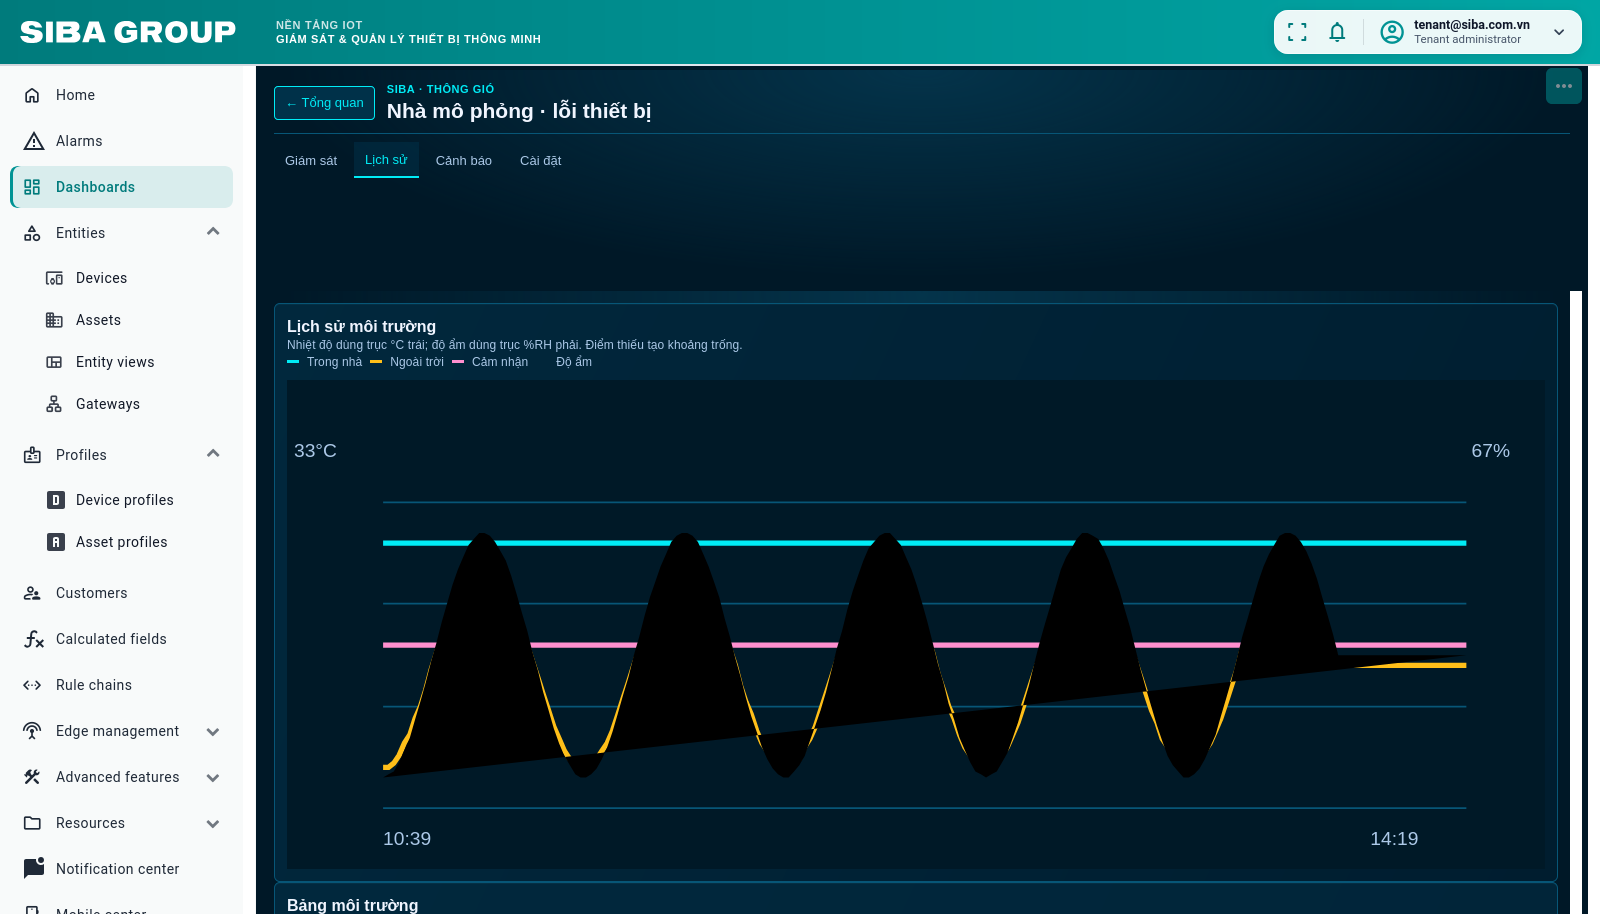
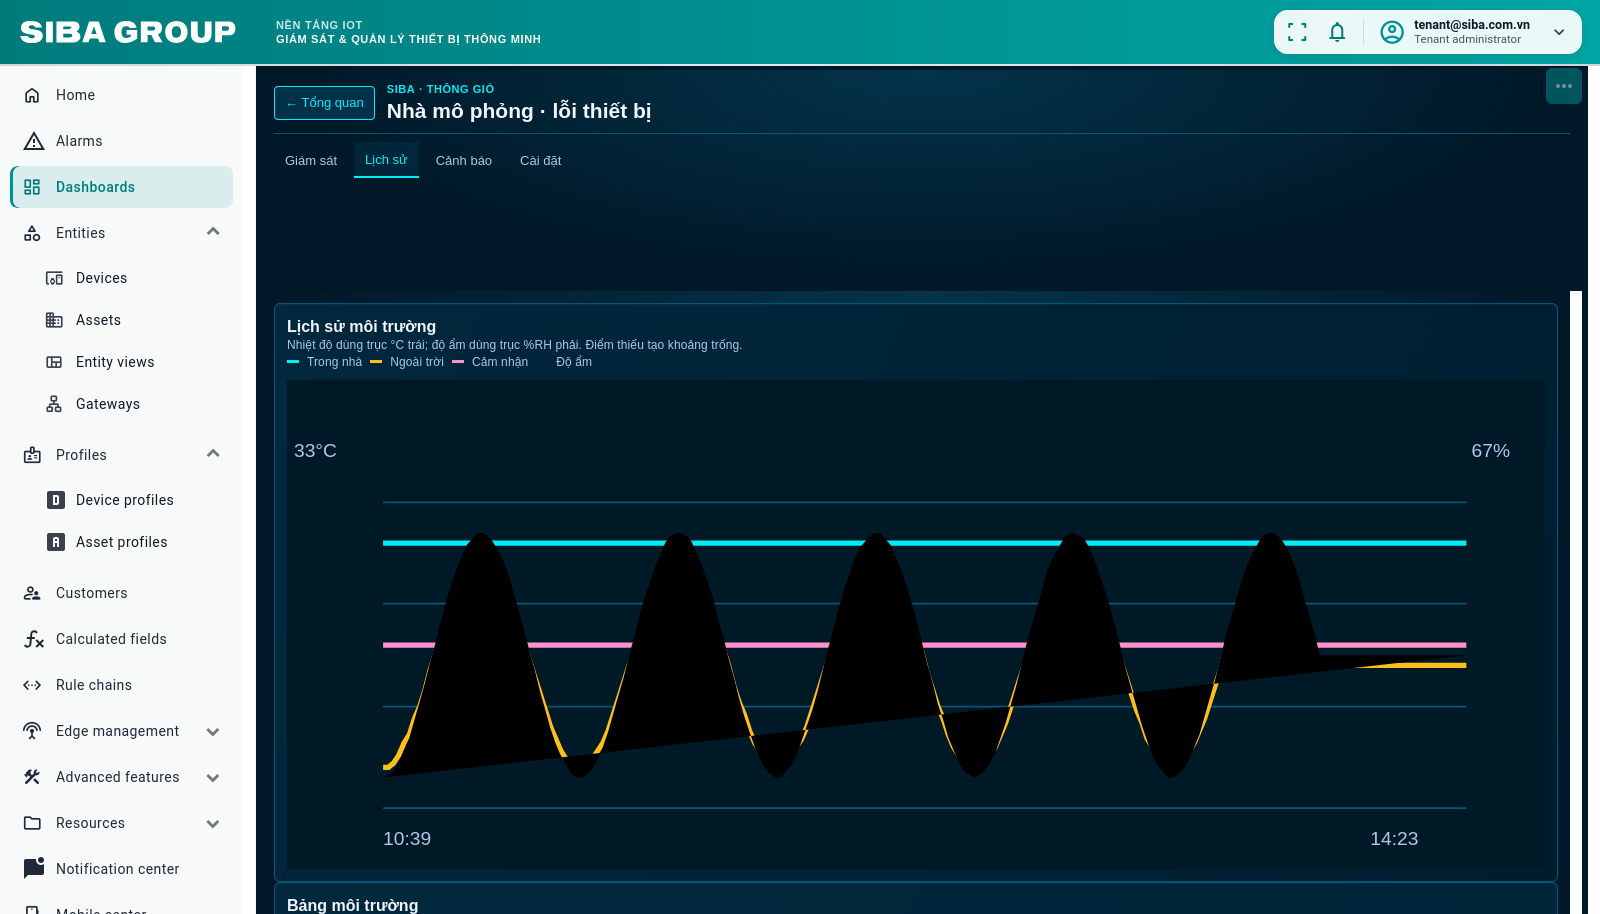
fix(vent011): widget alarm thiếu cửa sổ thời gian riêng nên truy vấn trả 0
Chẩn đoán cho thấy alias stateEntity resolve ĐÚNG thiết bị (SIM-VEN-FAULT, đủ 5 cột alarm),
state param có entityId, subscription đúng hình dạng — nhưng TB vẫn trả alarmTotal = 0.

Đối chiếu với widget alarm đang chạy thật trên dashboard Khử mùi của cùng instance: widget kiểu
alarm CÓ cửa sổ thời gian riêng (useDashboardTimewindow + timewindow). Cấu hình của ta không có
trường nào trong số đó. Giờ đặt cửa sổ riêng 7 ngày, không dùng cửa sổ 6 giờ của dashboard vì
dashboard này không có thanh công cụ để người xem tự đổi.

Trước đó tôi đã loại giả thuyết cửa sổ thời gian vì widget Lịch sử không khai mà vẫn chạy —
lập luận đó sai, timeseries và alarm là hai đường xử lý khác nhau trong TB.

162 test đạt.

diff --git a/deploy/thingsboard/build_vent_live.py b/deploy/thingsboard/build_vent_live.py
@@ -34,6 +34,9 @@ DETAIL_COMPONENTS = ('kpis', 'synoptic', 'controller', 'metrics')
 # Chu kỳ bơm 60s; 5 phút là STALE. Cài đặt ghi thưa nên nới ngưỡng, không để mặc định UNKNOWN.
 FRESHNESS_MONITORING_MS = 300000
 FRESHNESS_SETTING_MS = 7 * 24 * 60 * 60 * 1000
+# Widget kiểu alarm CÓ cửa sổ thời gian riêng; thiếu nó thì truy vấn alarm trả về 0 dù alias đã
+# resolve đúng thiết bị. Đối chiếu với widget alarm đang chạy thật trên dashboard Khử mùi.
+ALARM_WINDOW_MS = 7 * 24 * 60 * 60 * 1000
 
 
 def alias_definitions():
@@ -116,12 +119,17 @@ def dashboard():
             widget['config']['alarmSource'] = {
                 'type': 'entity', 'name': 'Nhà gió', 'entityAliasId': ALIAS_SELECTED,
                 'dataKeys': [data_key(field, 'alarm') for field in ALARM_FIELDS]}
-            # statusList rỗng = mọi trạng thái; giao diện tự phân ACTIVE và RECOVERED.
-            # Thiết bị mô phỏng chưa có quan hệ nên không tìm alarm lan truyền.
+            # statusList rỗng = mọi trạng thái (TB bỏ tham số khỏi truy vấn); giao diện tự phân
+            # ACTIVE và RECOVERED. Thiết bị mô phỏng chưa có quan hệ nên không tìm alarm lan truyền.
             widget['config']['alarmFilterConfig'] = {
-                'statusList': [], 'severityList': [], 'typeList': None,
+                'statusList': [], 'severityList': [], 'typeList': [],
                 'searchPropagatedAlarms': False, 'assigneeId': None}
             widget['config']['pageSize'] = 100
+            # Cửa sổ riêng 7 ngày, không dùng cửa sổ của dashboard (dashboard chỉ 6 giờ và
+            # không có thanh công cụ để người xem đổi).
+            widget['config']['useDashboardTimewindow'] = False
+            widget['config']['displayTimewindow'] = False
+            widget['config']['timewindow'] = {'realtime': {'timewindowMs': ALARM_WINDOW_MS}}
     return dash
 
 
@@ -146,6 +154,8 @@ def validate(dash):
             assert all(key['type'] == 'alarm' for key in config['alarmSource']['dataKeys'])
             assert config['alarmFilterConfig']['statusList'] == []
             assert config['alarmFilterConfig']['searchPropagatedAlarms'] is False
+            assert config['useDashboardTimewindow'] is False
+            assert config['timewindow']['realtime']['timewindowMs'] == ALARM_WINDOW_MS
         # Mọi khóa đã khai phải có keyMap và ngưỡng tươi, nếu không widget hiện UNKNOWN.
         # Trường alarm là trường của nền tảng, không phải khóa telemetry nên không vào keyMap.
         declared = {key['name'] for source in config['datasources'] for key in source['dataKeys']}

diff --git a/tests/test_vent011_deploy.py b/tests/test_vent011_deploy.py
@@ -126,6 +126,23 @@ class LiveDashboardPayloadTest(unittest.TestCase):
         for field in live.ALARM_FIELDS:
             self.assertNotIn(field, settings["keyMap"])
 
+    def test_alarm_widget_carries_its_own_time_window(self):
+        """Widget kiểu alarm CÓ cửa sổ thời gian; thiếu nó thì truy vấn trả 0 alarm dù alias đã
+        resolve đúng thiết bị và đã khai đủ cột. Đối chiếu widget alarm đang chạy thật trên
+        dashboard Khử mùi của cùng instance."""
+        config = self.widgets["alarms"]["config"]
+        self.assertIs(config["useDashboardTimewindow"], False)
+        self.assertIs(config["displayTimewindow"], False)
+        self.assertEqual(config["timewindow"]["realtime"]["timewindowMs"], live.ALARM_WINDOW_MS)
+        self.assertGreater(live.ALARM_WINDOW_MS, 24 * 60 * 60 * 1000)
+
+    def test_only_the_alarm_widget_overrides_the_dashboard_time_window(self):
+        for component, widget in self.widgets.items():
+            if widget["type"] == "alarm":
+                continue
+            self.assertNotIn("useDashboardTimewindow", widget["config"], component)
+            self.assertNotIn("timewindow", widget["config"], component)
+
     def test_alarm_filter_accepts_every_status_and_ignores_propagated(self):
         config = self.widgets["alarms"]["config"]["alarmFilterConfig"]
         self.assertEqual(config["statusList"], [])
